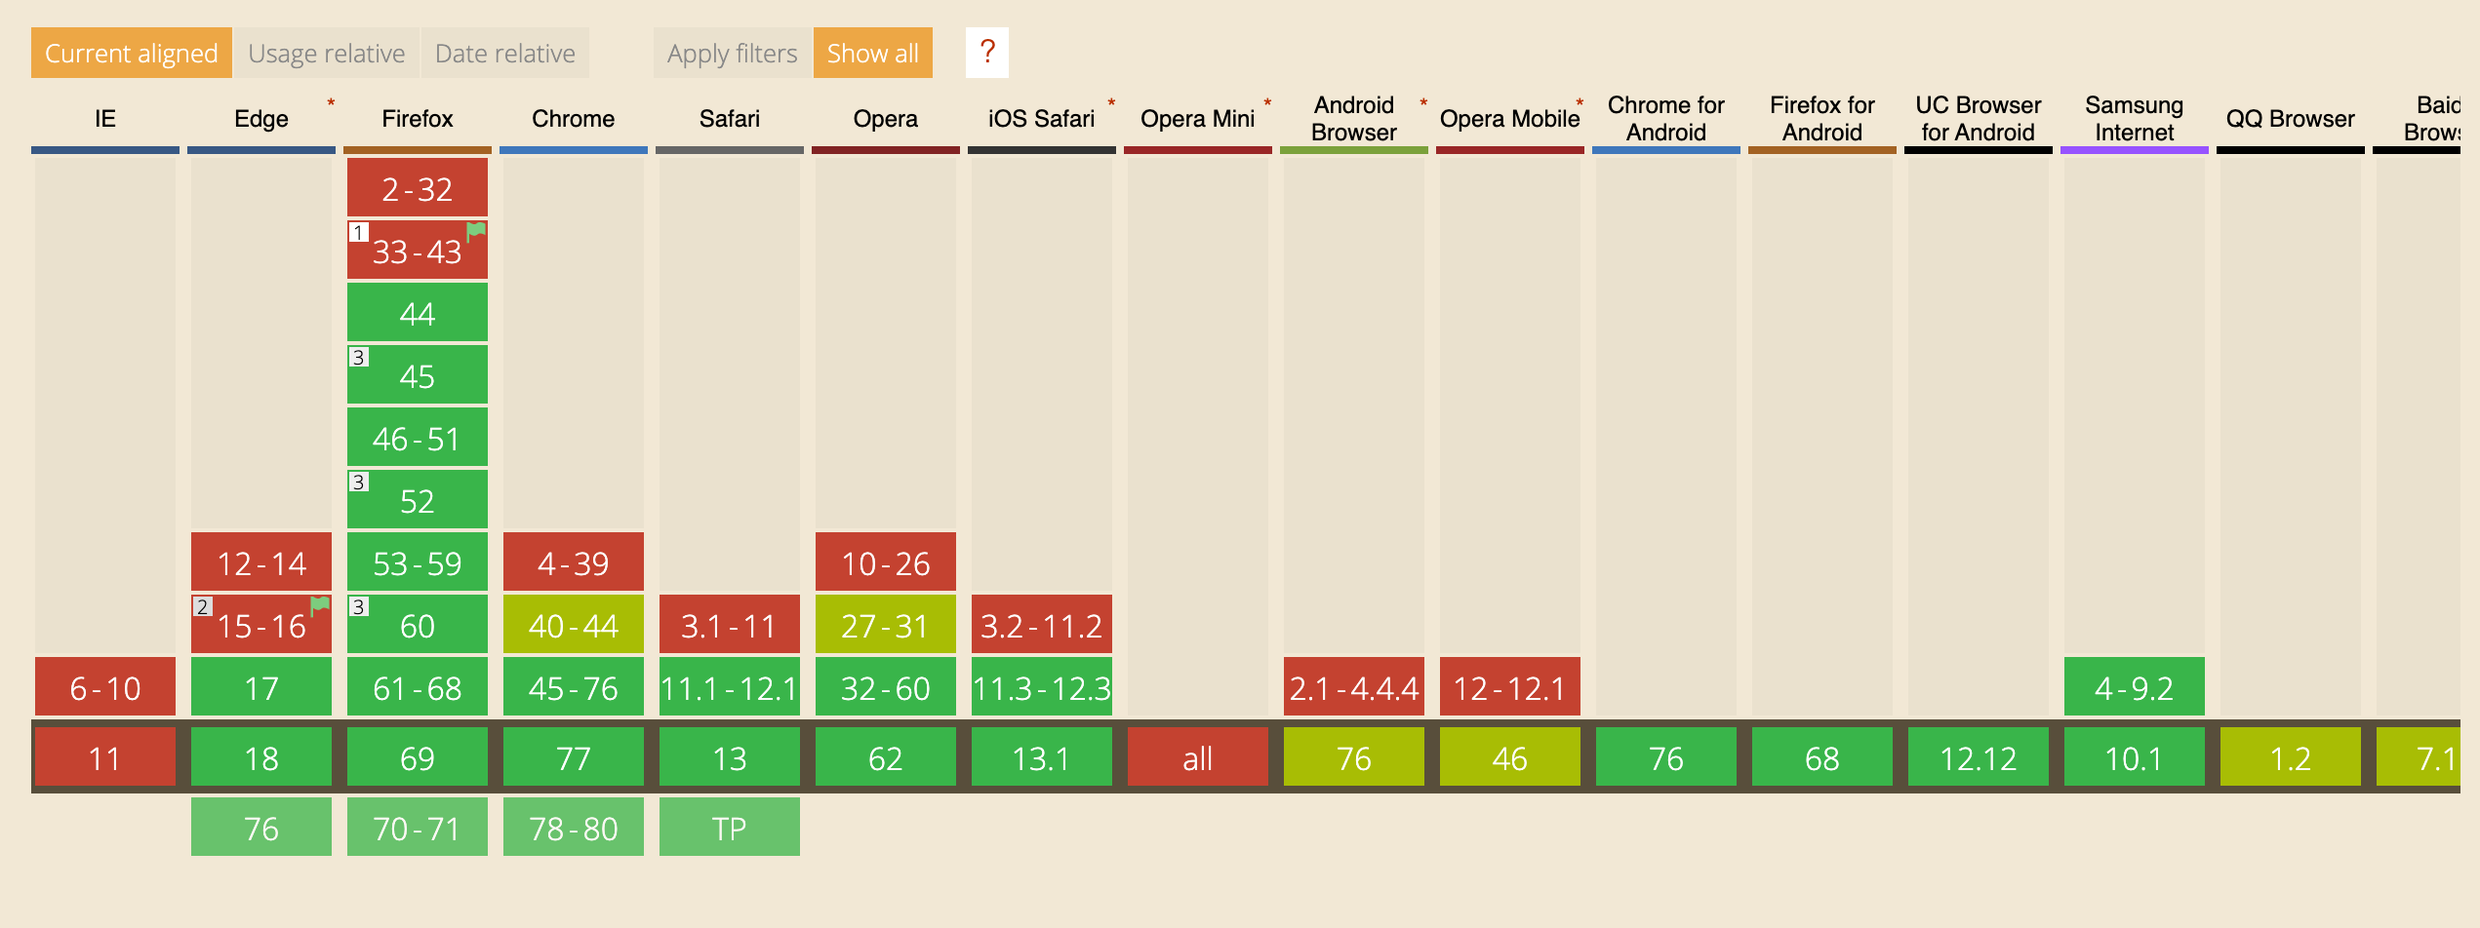
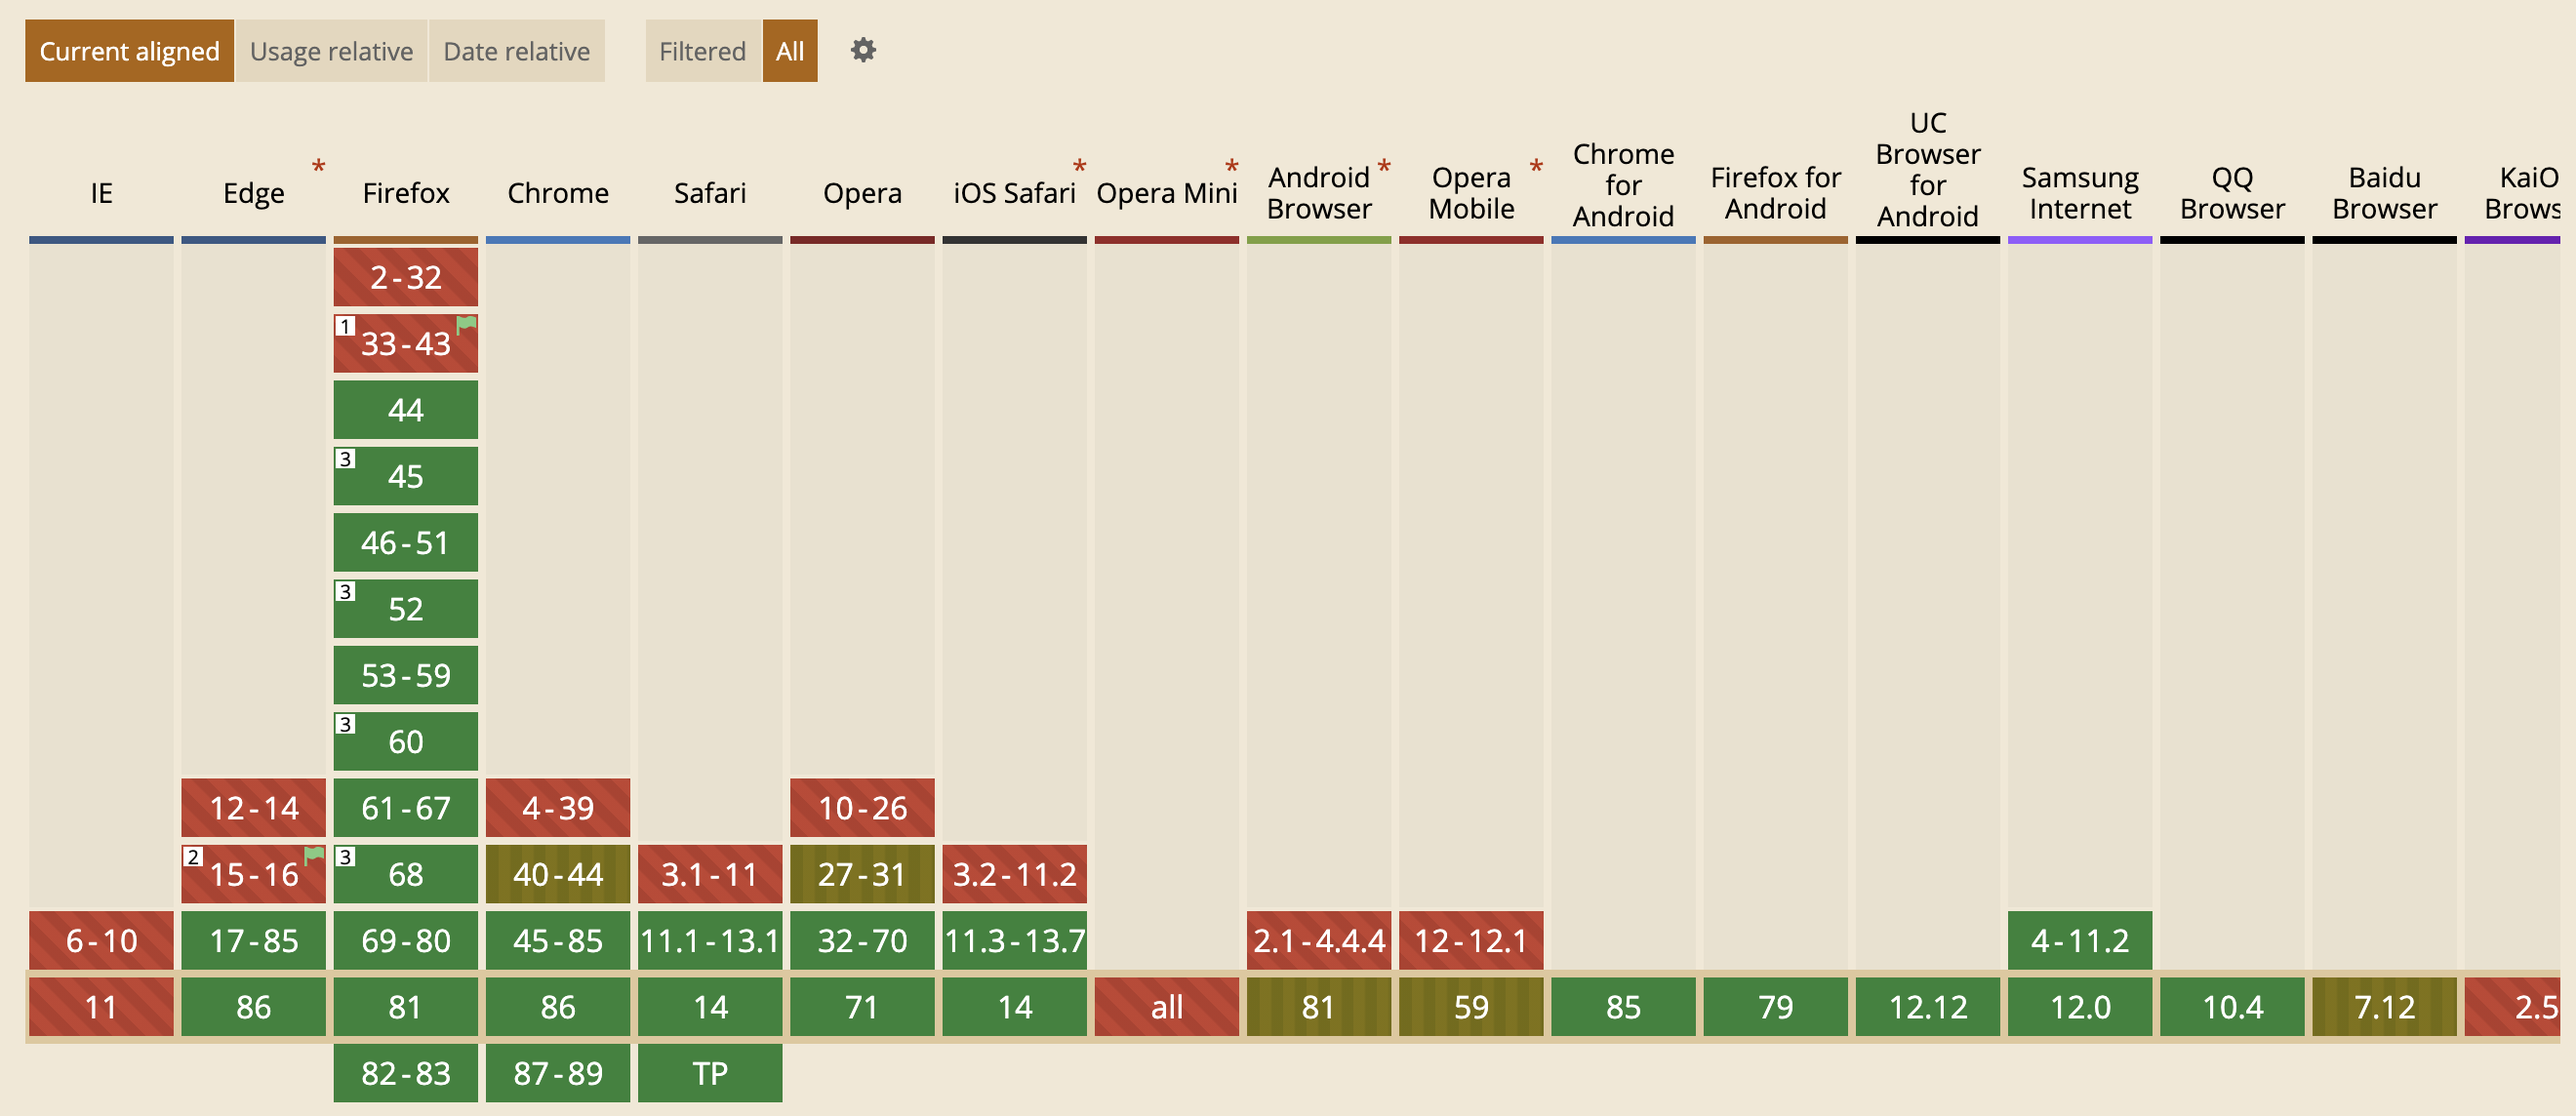
Обновили сайт (10/26/2020, 6:02:52 PM)

Changed region(s): [[0.0, 0.0914, 0.9945, 1.0], [0.0, 0.0, 0.404, 0.0914]]

diff --git a/slides/s6/index.html b/slides/s6/index.html
@@ -672,7 +672,7 @@
 		<h2>Поддержка браузерами &mdash; <a href="https://caniuse.com/#feat=websockets" target="_blank">caniuse</a></h2>
 		<div style="position: relative; width: 100%; height: 80%;">
 			<img class="place" src="ws-caniuse.png"
-				style="transform-origin: center; transform: translate(-50%,-65%) scale(0.75);">
+				style="transform-origin: center; transform: translate(-50%,-50%) scale(0.35);">
 		</div>
 	</section>
 
@@ -874,7 +874,7 @@
 		<h2>Service Workers используются</h2>
 		<p class="medium-content"></p>
 		<ul>
-			<li>Кэширование данных (50MB+)</li>
+			<li>Кэширование данных (<a href="https://developer.mozilla.org/en-US/docs/Web/API/IndexedDB_API/Browser_storage_limits_and_eviction_criteria" target="_blank">до 50% диска</a>) </li>
 			<li><strong>Оффлайн-работа приложения</strong> (прям вообще без Интернета чтобы было!)</li>
 			<li>Фоновая синхронизация данных</li>
 			<li>Ответ на запросы от других источников ("проксирование" запросов)</li>
@@ -971,21 +971,11 @@
 	</section>
 
 	<section class="slide">
+		<h2 class="shout">Больше протоколов!</h2>
+	</section>
+
+	<section class="slide">
 		<h2 class="shout">HTTP/2</h2>
-	</section>
-
-	<section class="slide">
-		<h2>Original HTTP/0.9 implementation</h2>
-		<iframe src="https://www.w3.org/Protocols/HTTP/AsImplemented.html" frameborder="0" width="100%"
-			height="80%"></iframe>
-	</section>
-
-	<section class="slide">
-		<h2>Hypertext Transfer Protocol: HTTP/1.1</h2>
-		<div style="position: relative; width: 100%; height: 100%; overflow: hidden; margin: 0 auto;">
-			<iframe src="https://rfc2.ru/2068.rfc/original" frameborder="0" width="100%" height="80%"
-				style="transform-origin: center; transform: translate(10%, -10%) scale(1.2)"></iframe>
-		</div>
 	</section>
 
 	<section class="slide">
@@ -1192,6 +1182,94 @@
 		<h2>Итак... HTTP/2 очень хорош!</h2>
 	</section>
 
+	<section class="slide question">
+		<h2>Но...</h2>
+	</section>
+
+	<section class="slide">
+		<h2 class="shout">Больше протоколов!</h2>
+	</section>
+
+	<section class="slide">
+		<h2 class="shout">HTTP/3</h2>
+	</section>
+
+	<section class="slide">
+		<h2>Read</h2>
+		<div style="font-size:36px;margin-top:15%;">
+			<a href="https://blog.cloudflare.com/http3-the-past-present-and-future/" target="_blank">
+				https://blog.cloudflare.com/http3-the-past-present-and-future/
+			</a><br>
+			HTTP/3: the past, the present, and the future
+		</div>
+	</section>
+
+	<section class="slide">
+		<h2>head-of-line blocking problem</h2>
+		<div style="font-size:36px;margin-top:15%;">
+			<p><b>HTTP/2</b> — абстракция</p>
+			<p><b>TCP</b> — стрим из пакетов</p>
+			<p>packet loss — resend — delay</p>
+		</div>
+	</section>
+
+	<section class="slide">
+		<h2 class="shout">Больше протоколов!</h2>
+	</section>
+
+	<section class="slide">
+		<h2 class="shout">Протокол QUIC</h2>
+	</section>
+
+	<section class="slide">
+		<h2>Read</h2>
+		<div style="font-size:36px;margin-top:15%;">
+			<a href="https://blog.cloudflare.com/the-road-to-quic/" target="_blank">
+				https://blog.cloudflare.com/the-road-to-quic/
+			</a><br>
+			The Road to QUIC
+		</div>
+	</section>
+
+	<section class="slide">
+		<h2>QUIC</h2>
+		<div style="font-size:36px;margin-top:15%;">
+			<div style="position: relative; width: 100%; height: 75%; margin: 0 auto;">
+				<img class="place" src="quic1.png"
+					style="transform-origin: center; transform: translate(-50%,-30%) scale(0.8);">
+			</div>
+		</div>
+	</section>
+
+	<section class="slide">
+		<h2>QUIC</h2>
+		<div style="font-size:36px;margin-top:15%;">
+			<div style="position: relative; width: 100%; height: 75%; margin: 0 auto;">
+				<img class="place" src="quic2.png"
+					style="transform-origin: center; transform: translate(-50%,-30%) scale(0.8);">
+			</div>
+		</div>
+	</section>
+
+	<section class="slide">
+		<h2>HTTP/3 !== HTTP/2 + QUIC</h2>
+		<div style="font-size:20px;margin-top:15%;">
+			<p>
+				While it’s true that some of the HTTP/2 features can be mapped on top of QUIC very easily,
+				that’s not true for all of them.
+			</p>
+			<p>One in particular,
+				HTTP/2’s header compression scheme called HPACK,
+				heavily depends on the order in which different HTTP requests
+				and responses are delivered to the endpoints.
+			</p>
+			<p>
+				QUIC enforces delivery order of bytes within single streams,
+				but does not guarantee ordering among different streams.
+			</p>
+			<p>* QUIC -> QPACK</p>
+		</div>
+	</section>
 
 	<section class="slide">
 		<h2>Полезные ссылки</h2>
@@ -1220,6 +1298,9 @@
 					Performance... And Failed</a></li>
 			<li>High Performance Browser Networking (O'Reilly): <a href="https://youtu.be/whFhyHysYYg"
 					target="_blank">HTTP/2</a>
+			</li>
+			<li>
+				<a href="https://blog.cloudflare.com/http3-the-past-present-and-future/" target="_blank">HTTP/3: the past, the present, and the future</a>
 			</li>
 		</ul>
 	</section>

diff --git a/index.html b/index.html
@@ -26,9 +26,9 @@
 <h5 id="второй-модуль">Второй модуль</h5>
 <ul>
 <li>СЗ5: <a href="/module/2/lesson/1">Архитектура web-приложений, роутинг, методологии написания CSS</a> (<a href="/slides/s5">слайды</a>)</li>
+<li>СЗ6: <a href="/module/2/lesson/2">Производительность web-приложений и работа с данными в браузере, WebSockets, HTTP/2</a> (<a href="/slides/s6">слайды</a>)</li>
 </ul>
-<!-- - СЗ6: [Производительность web-приложений и работа с данными в браузере, WebSockets, HTTP/2](/module/2/lesson/2) ([слайды](/slides/s6))
-- СЗ8: [Современные возможности CSS, разработка под мобильные устройства](/module/3/lesson/1) ([слайды](/slides/s9))
+<!-- - СЗ8: [Современные возможности CSS, разработка под мобильные устройства](/module/3/lesson/1) ([слайды](/slides/s9))
 - Л1: [Графика и FrontendOops (Инфраструктура разработки)](/module/2/lesson/3) ([слайды](/slides/s7))
 
 ##### Третий модуль

diff --git a/slides/s9/index.html b/slides/s9/index.html
@@ -1057,10 +1057,10 @@
 </section>
 
 <section class="slide">
-	<h2>StatCounter, Oct 2018</h2>
+	<h2>StatCounter, Sep 2020</h2>
 	<div style="position:relative;width: 100%;height: 80%;">
-		<img class="place" src="stats2018.png"
-			 style="transform-origin: center;transform: translate(-50%, -50%) scale(0.7);">
+		<img class="place" src="stats2020.png"
+			 style="transform-origin: center;transform: translate(-50%, -50%) scale(0.4);">
 	</div>
 </section>
 
